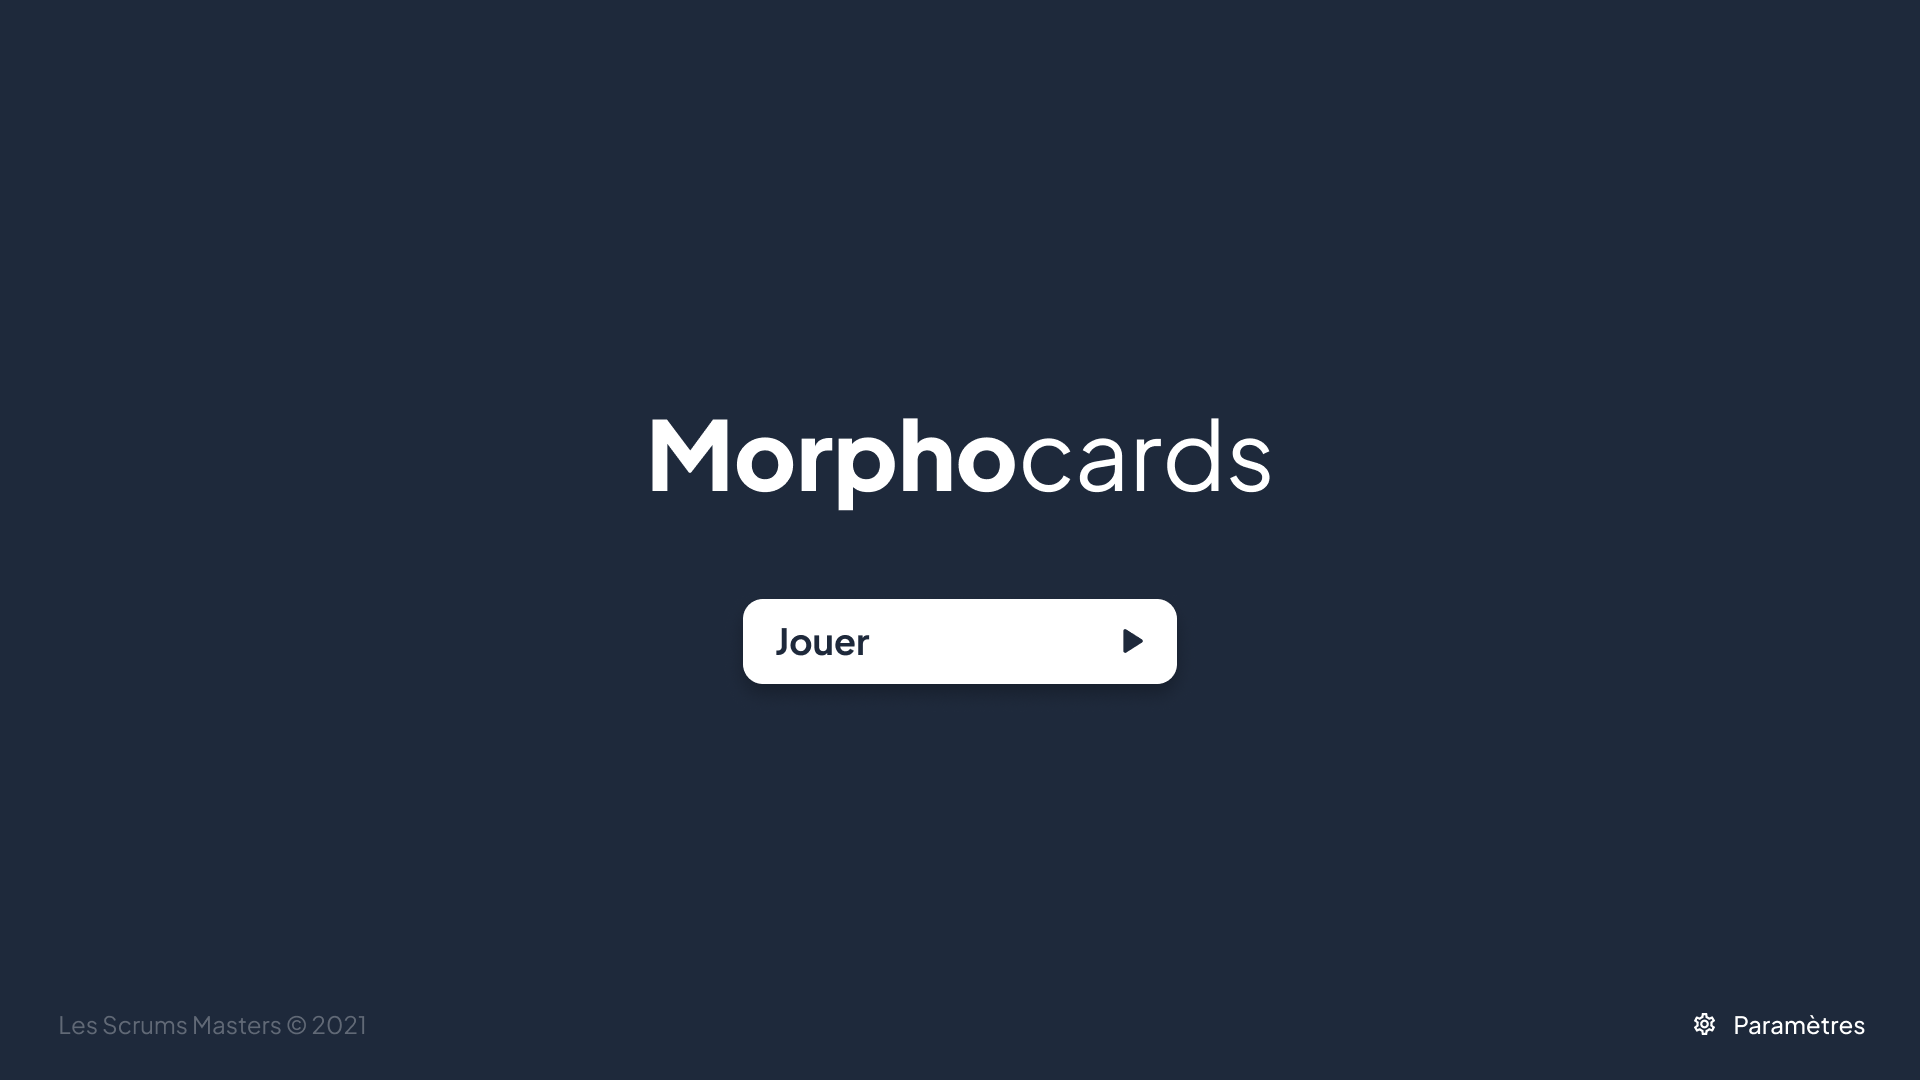
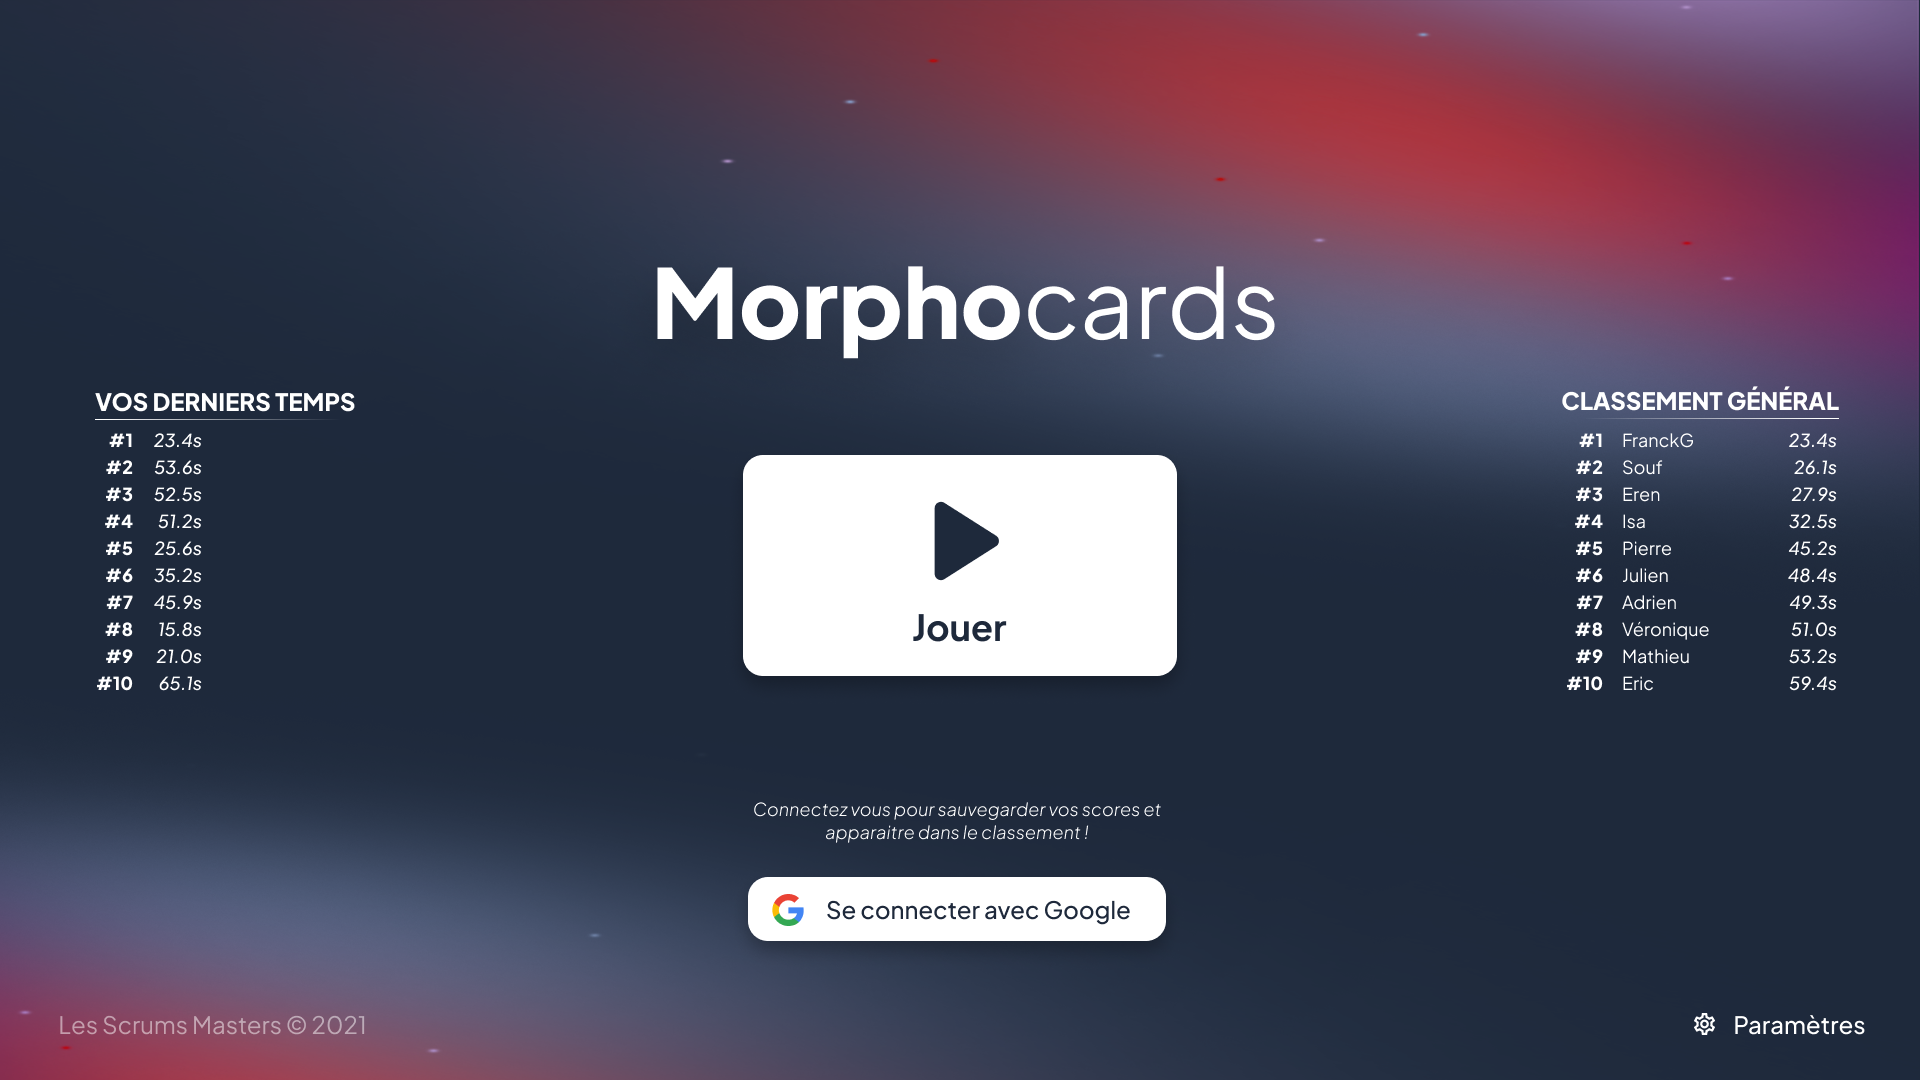
Updated README with new gameplay & new gameplay images

diff --git a/README.md b/README.md
@@ -19,7 +19,12 @@ MorphoCards est un jeu sérieux ludique qui a pour vocation de faire comprendre 
 
 ![Menu principal](./images/Menu_principal.png)
 
-Il s'agit d'un jeu de cartes visuel. Le joueur se retrouvera avec une main de X cartes constituée de symboles représentant différents phonèmes. Le plateau de jeu, lui, contiendra une ou plusieurs cartes représentant différentes parties d'un mot, que le joueur devra compléter à l'aide des cartes de sa main. Pour l'aider, il pourra s'il le souhaite, écouter le mot à découvrir. Le but du joueur sera donc de retrouver le mot correspondant.
-Une partie se déroulera en X tours. Il faudra terminer la partie en faisant le moins d'erreur possible. A chaque mauvaise réponse, le joueur se verra indiquer le mot approprié avec ses phonèmes correspondant. Il pourra donc se mettre à la place d'une personne dyslexique qui interprète un mot d'une manière différente.
+Il s'agit d'un jeu de cartes visuel. Le joueur se retrouvera avec une main de X cartes constituée de symboles représentant différents phonèmes. Le plateau de jeu, lui, contiendra une ou plusieurs cartes représentant différentes parties d'un mot, que le joueur devra compléter à l'aide des cartes de sa main. Lors de chaque manche, le joueur entendra le mot à compléter, et pourra le réécouter autant qu'il le souhaite. Le but du joueur sera donc de reconstituer le mot entendu à l'aide des cartes de sa main.
+
+Un clic sur une carte de sa main lui permettra d'écouter le son qu'elle représente. Si le joueur complète correctement le mot, il passe à la manche suivante. Sinon, il peut réesayer autant de fois qu'il le souhaite, mais il peut demander la correction après avoir fait au moins une erreur.
+
+Une partie se déroulera en 10 tours. L'objectif est de terminer la partie avec le meilleur temps possible. À chaque fois que le joueur demande une correction, une pénalité de temps sera ajoutée. 
+
+Le joeur pourra donc se mettre à la place d'une personne dyslexique qui interprète un mot d'une manière différente.
 
 ![Mode 1](./images/Mode_1.png)
